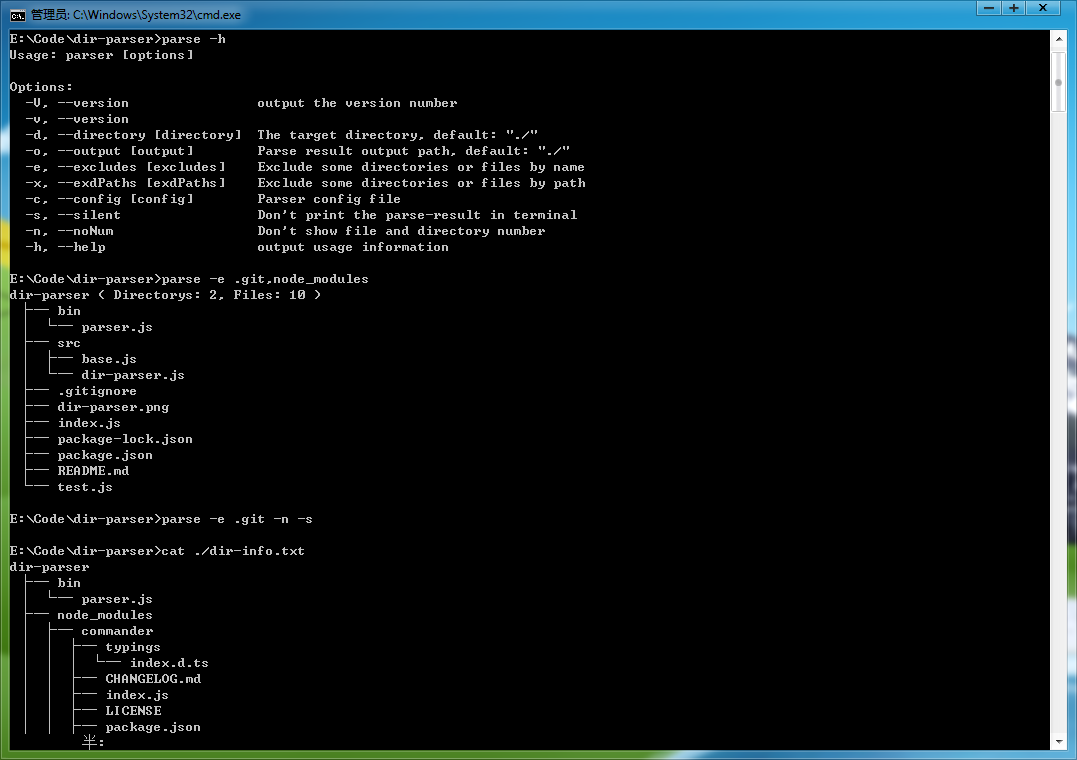
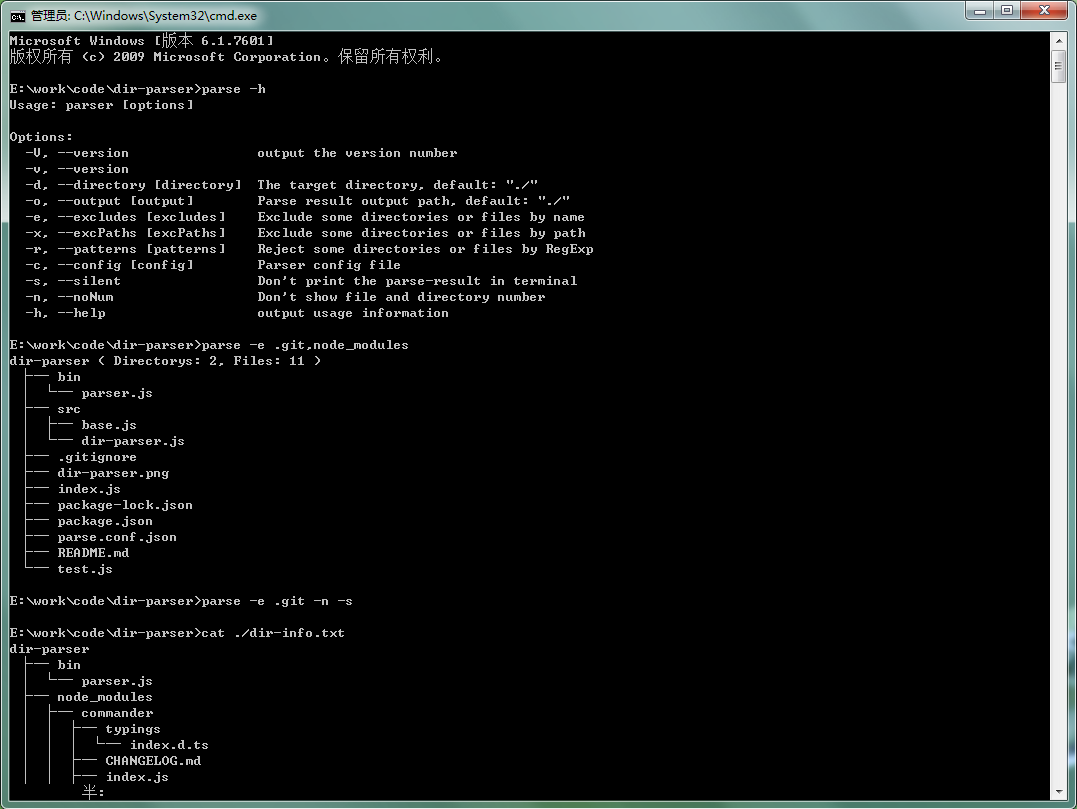
Update

Changed region(s): [[0.0, 0.0, 1.0, 1.0], [0.2145, 0.6658, 0.2451, 0.6961]]

diff --git a/src/dir-parser.js b/src/dir-parser.js
@@ -1,5 +1,6 @@
 const fs = require('fs');
 const path = require('path');
+const fn = require('funclib');
 const { DirInfo, FileInfo, calcSizekb } = require('./base');
 
 /**
@@ -23,25 +24,40 @@ module.exports = (target, options) => {
  * @param options object
  */
 function dirParser(target, options = {}) {
+
   if (!fs.statSync(target).isDirectory()) {
     throw new Error('Target must be a directory!')
   }
 
-  let isGetDirTree = typeof options.dirTree === 'boolean' ? options.tree : true;
-  const isGetMembers = !!options.members;
-  const isGetFiles = !!options.files;
-  const noNum = !!options.noNum;
-  const absTarget = path.resolve(target);
-  const tarName = path.basename(absTarget)
-  const excludes = options.excludes || [];
-  const exdPaths = (options.exdPaths || []).map(ex => path.resolve(ex));
-  const tarInfo = new DirInfo(tarName, target);
+  const isGetDirTree = fn.typeOf(options.dirTree, 'bol') ? options.dirTree : true;
+  const noNum = fn.get(options, 'noNum', 'bol');
+  const isGetFiles = fn.get(options, 'files', 'bol');
+  const isGetChildren = fn.get(options, 'children', 'bol');
+
+  let excludes = fn.get(options, 'excludes', 'arr') || [];
+  let excPaths = fn.get(options, 'excPaths', 'arr') || [];
+  excludes = fn.drop(excludes.map(ex => fn.typeVal(ex, 'str')));
+  excPaths = fn.drop(excPaths.map(ex => fn.typeVal(ex, 'str') ? path.resolve(ex) : ''));
+
+  let patterns = fn.get(options, 'patterns', 'arr') || [];
+  patterns = fn.drop(patterns.map(ptn => {
+    if (fn.typeOf(ptn, 'ptn')) {
+      return ptn;
+    } else if (fn.typeVal(ptn, 'str')) {
+      return new RegExp(ptn.replace('.', '\\.').replace('*', '.*'));
+    } else {
+      return '';
+    }
+  }));
 
   let dirTree = '';
   const dirs = [];
   const files = [];
+  const absTarget = path.resolve(target);
+  const tarName = path.basename(absTarget)
+  const tarInfo = new DirInfo(tarName, target);
 
-  if (isGetMembers) {
+  if (isGetChildren) {
     dirs.push({
       'path': target,
       'info': tarInfo
@@ -54,19 +70,21 @@ function dirParser(target, options = {}) {
    * @param deep     deep = 1
    * @param prev     prev = ''
    */
-  function parseDir(dirPath, members, deep = 1, prev = '') {
+  function parseDir(dirPath, children, deep = 1, prev = '') {
     const subDirs = [];
     const subFiles = [];
     let filesSize = 0;
 
     // Classify directorys and files of the dirPath
-    fs.readdirSync(dirPath).forEach(item => {
-      const iPath = path.join(dirPath, item);
-      const isExdPath = exdPaths.some(ePath => iPath === ePath);
-      if (!isExdPath && !excludes.includes(item)) {
+    fs.readdirSync(dirPath).forEach(path_ => {
+      const iPath = path.join(dirPath, path_);
+      const iPath_ = iPath.replace(/\\/mg, '/');
+      const isExclude = excludes.includes(path_) || excPaths.some(ePath => iPath === ePath);
+      const isRejects = isExclude || patterns.some(ptn => !!iPath.match(ptn) || !!iPath_.match(ptn));
+      if (!isRejects) {
         const stat = fs.statSync(iPath);
         const memberInfo = {
-          'name': item,
+          'name': path_,
           'path': iPath
         };
         if (stat.isDirectory()) {
@@ -81,13 +99,13 @@ function dirParser(target, options = {}) {
     let split = '';
     let dirInfo = {};
     subDirs.forEach((dir, i) => {
-      if (isGetMembers) {
+      if (isGetChildren) {
         dirInfo = new DirInfo(dir.name, dir.path);
         dirs.push({
           'path': dirInfo.path,
           'info': dirInfo
         });
-        members.push(dirInfo);
+        children.push(dirInfo);
       }
       if (isGetDirTree) {
         if (i < subDirs.length - 1 || subFiles.length > 0) {
@@ -99,7 +117,7 @@ function dirParser(target, options = {}) {
         }
       }
       const nextPath = path.join(dirPath, dir.name);
-      const nextMemb = isGetMembers ? dirInfo.members : members;
+      const nextMemb = isGetChildren ? dirInfo.children : children;
       const nextDeep = deep + 1;
       const nextSplit = prev + split;
       parseDir(nextPath, nextMemb, nextDeep, nextSplit);
@@ -107,13 +125,13 @@ function dirParser(target, options = {}) {
 
     // Handle files
     subFiles.forEach((file, i) => {
-      if (isGetMembers || isGetFiles) {
+      if (isGetChildren || isGetFiles) {
         const fileInfo = new FileInfo(file.name, file.path);
         if (isGetFiles) {
           files.push(fileInfo);
         }
-        if (isGetMembers) {
-          members.push(fileInfo);
+        if (isGetChildren) {
+          children.push(fileInfo);
         }
         filesSize += fileInfo.size;
       }
@@ -126,7 +144,7 @@ function dirParser(target, options = {}) {
       }
     });
 
-    if (isGetMembers) {
+    if (isGetChildren) {
       dirs.forEach(dir => {
         if (dirPath.includes(dir.path)) {
           dir.info.dirNum += subDirs.length;
@@ -141,10 +159,10 @@ function dirParser(target, options = {}) {
     }
   }
 
-  parseDir(target, tarInfo.members);
+  parseDir(target, tarInfo.children);
 
-  if (!isGetMembers) {
-    delete tarInfo.members;
+  if (!isGetChildren) {
+    delete tarInfo.children;
     if (!isGetFiles) {
       delete tarInfo.size;
       delete tarInfo.size_kb;

diff --git a/bin/parser.js b/bin/parser.js
@@ -17,7 +17,8 @@ program.version(package.version)
   .option('-d, --directory [directory]', 'The target directory, default: "./"')
   .option('-o, --output [output]', 'Parse result output path, default: "./"')
   .option('-e, --excludes [excludes]', 'Exclude some directories or files by name')
-  .option('-x, --exdPaths [exdPaths]', 'Exclude some directories or files by path')
+  .option('-x, --excPaths [excPaths]', 'Exclude some directories or files by path')
+  .option('-r, --patterns [patterns]', 'Reject some directories or files by RegExp')
   .option('-c, --config [config]', 'Parser config file')
   .option('-s, --silent', 'Don\'t print the parse-result in terminal')
   .option('-n, --noNum', 'Don\'t show file and directory number')
@@ -34,14 +35,15 @@ let output = program.output
   || fn.get(config, 'output', 'str')
   || path.resolve('./');
 let excludes = program.excludes
-  || fn.get(config, 'excludes', 'arr', 'str')
+  || fn.get(config, 'excludes', 'arr')
   || [];
-let exdPaths = program.exdPaths
-  || fn.get(config, 'exdPaths', 'arr', 'str')
+let excPaths = program.excPaths
+  || fn.get(config, 'excPaths', 'arr')
   || [];
-const noNum = program.noNum
-  || fn.get(config, 'noNum', 'bol')
-  || false;
+let patterns = program.patterns
+  || fn.get(config, 'patterns', 'arr')
+  || [];
+const noNum = program.noNum || fn.get(config, 'noNum', 'bol');
 const silent = program.silent;
 
 /**
@@ -66,31 +68,33 @@ if (outputStat.isDirectory()) {
 /**
  * Format the exculds
  */
-function exdHandler(ecd, item) {
-  if (fn.typeOf(ecd, 'str')) {
-    ecd = rmQuote(ecd);
-    if (ecd.startsWith('[')) {
+function excHandler(exc, type_) {
+  if (fn.typeOf(exc, 'str')) {
+    exc = rmQuote(exc);
+    if (exc.startsWith('[')) {
       try {
-        eval('ecd =' + ecd);
+        eval('exc =' + exc);
       } catch (e) {
-        ecd = fn.get(config, item, 'arr', 'str') || [];
+        exc = fn.get(config, type_, 'arr') || [];
       }
     } else {
-      ecd = ecd.split(',');
+      exc = exc.split(',');
     }
   }
-  return fn.toArr(ecd);
+  return fn.toArr(exc);
 }
-excludes = exdHandler(excludes, 'excludes');
-exdPaths = exdHandler(exdPaths, 'exdPaths');
-exdPaths.push(dirInfoFile);
+patterns = excHandler(patterns, 'patterns');
+excludes = excHandler(excludes, 'excludes');
+excPaths = excHandler(excPaths, 'excPaths');
+excPaths.push(dirInfoFile);
 
 /**
  * Parse by options
  */
 parse(target, {
   'excludes': excludes,
-  'exdPaths': exdPaths,
+  'excPaths': excPaths,
+  'patterns': patterns,
   'noNum': noNum
 }).then(
   parsed => {

diff --git a/test.js b/test.js
@@ -2,36 +2,30 @@ const fn = require('funclib');
 const parse = require('./index');
 
 let target = './';
-let excludes = [ '.git', 'dir-info.txt', 'package-lock.json' ];
+let excludes = ['.git', 'dir-info.txt', 'package-lock.json'];
 
 /**
  * Get parsed dir-tree
  * ============================================================
  */
-parse(target, {
-  excludes: excludes,
-  // dirTree: false,    // Default is true, parsed conatins a string of directory structure truee;
-  // members: true      // Default is false, If true, parsed will conatins an object of all members's info;
-  // files: true,       // Default is false, If true, parsed will conatins an array of all subfiles's info;
-}).then(parsed => {
+parse(target, { excludes: excludes }).then(parsed => {
   fn.log(parsed.dirTree, '# parsed.dirTree');
   fn.log(fn.pick(parsed, prop => prop !== 'dirTree'), '# parsed result info');
-  // fn.log(parsed.members, '# parsed.members');
+  // fn.log(parsed.children, '# parsed.children');
   // fn.log(parsed.files, '# parsed.files');
 });
 
 /**
- * Get parsed dir-info (members & files)
+ * Get parsed dir-info (children & files)
  * ============================================================
  */
 excludes = ['.git', 'node_modules', 'dir-info.txt', 'package-lock.json'];
 parsed = parse(target, {
   excludes: excludes,
-  dirTree: false,
-  files: true,
-  members: true
+  files: true,       // Default is false, If true, returns will conatins an array of all subfiles's info;
+  children: true,    // Default is false, If true, returns will conatins an object of all children's info;
+  dirTree: false     // Default is true, returns will conatins a tree of the directory;
 }).then(parsed => {
-  fn.log(parsed.members, '# parsed.members');
+  fn.log(parsed.children, '# parsed.children');
   fn.log(parsed.files, '# parsed.files');
 });
-

diff --git a/src/base.js b/src/base.js
@@ -17,7 +17,7 @@ exports.DirInfo = class DirInfo {
     this.absDir = path.dirname(this.absPath);
     this.dirNum = 0;
     this.fileNum = 0;
-    this.members = [];
+    this.children = [];
   }
 }
 

diff --git a/README.md b/README.md
@@ -101,36 +101,31 @@ Usage 03
   const parse = require('dir-parser');
 
   let target = './';
-  let excludes = [ '.git', 'dir-info.txt', 'package-lock.json' ];
+  let excludes = ['.git', 'dir-info.txt', 'package-lock.json'];
 
   /**
-   * Get parsed dir-tree
-   * ============================================================
-   */
-  parse(target, {
-    excludes: excludes,
-    // dirTree: false,    // Default is true, parsed conatins a string of directory structure truee;
-    // members: true      // Default is false, If true, parsed will conatins an object of all members's info;
-    // files: true,       // Default is false, If true, parsed will conatins an array of all subfiles's info;
-  }).then(parsed => {
+  * Get parsed dir-tree
+  * ============================================================
+  */
+  parse(target, { excludes: excludes }).then(parsed => {
     fn.log(parsed.dirTree, '# parsed.dirTree');
     fn.log(fn.pick(parsed, prop => prop !== 'dirTree'), '# parsed result info');
-    // fn.log(parsed.members, '# parsed.members');
+    // fn.log(parsed.children, '# parsed.children');
     // fn.log(parsed.files, '# parsed.files');
   });
 
   /**
-   * Get parsed dir-info (members & files)
-   * ============================================================
-   */
+  * Get parsed dir-info (children & files)
+  * ============================================================
+  */
   excludes = ['.git', 'node_modules', 'dir-info.txt', 'package-lock.json'];
   parsed = parse(target, {
     excludes: excludes,
-    dirTree: false,
-    files: true,
-    members: true
+    files: true,       // Default is false, If true, returns will conatins an array of all subfiles's info;
+    children: true,    // Default is false, If true, returns will conatins an object of all children's info;
+    dirTree: false     // Default is true, returns will conatins a tree of the directory;
   }).then(parsed => {
-    fn.log(parsed.members, '# parsed.members');
+    fn.log(parsed.children, '# parsed.children');
     fn.log(parsed.files, '# parsed.files');
   });
 ```
